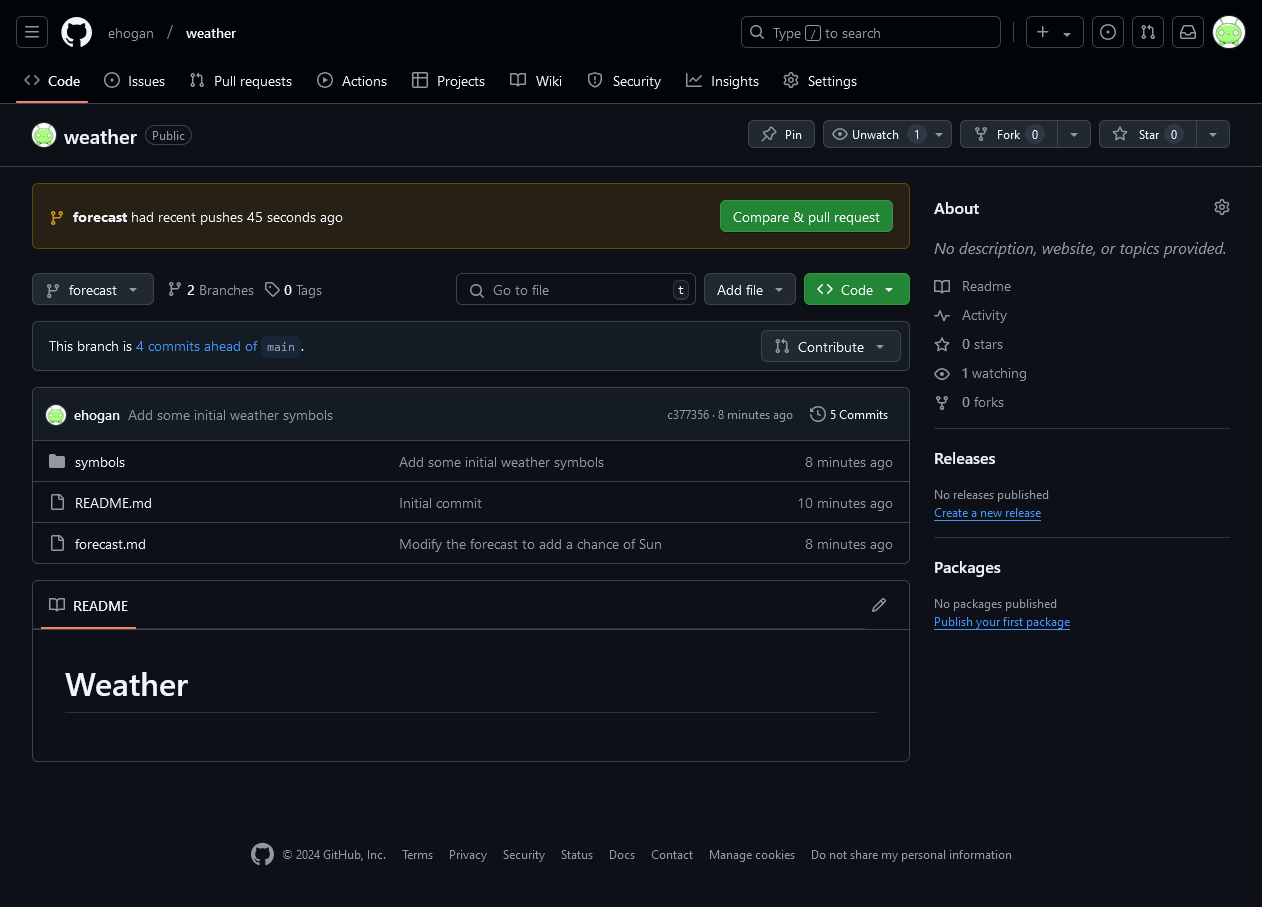
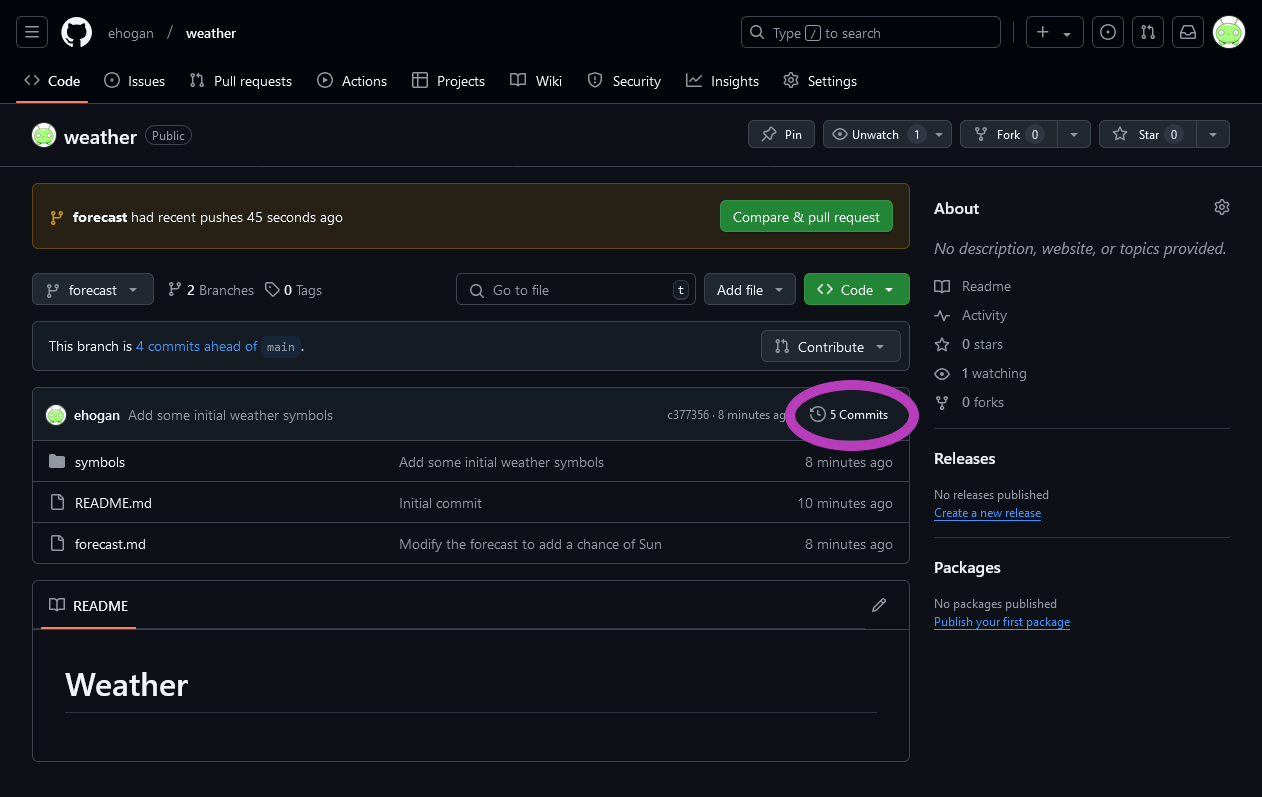
#61: Update images and use the images in the expected order

diff --git a/episodes/09-github-history.md b/episodes/09-github-history.md
@@ -39,18 +39,21 @@ Now we can push our local branch to GitHub:
 $ git push
 ```
 
-Navigate to your `weather` GitHub repo,
-then select the `forecast` branch from the branch drop down box:
+Navigate to your `weather` GitHub repo:
 
-![](fig/weather-repository-01.png){alt='A screenshot of the main branch of weather repository on GitHub, showing the branch drop down box.'}
+![](fig/weather-repository-01.png){alt='A screenshot of the main branch of weather repository on GitHub.'}
 
-Click on `commits`.
+Select the `forecast` branch from the branch drop down box:
 
-![](fig/weather-repository-02.png){alt='A screenshot of the forecast branch of weather repository on GitHub, showing how to navigate to the commits.'}
+![](fig/weather-repository-02.png){alt='A screenshot of the main branch of weather repository on GitHub, showing the branch drop down box.'}
+
+Click on `commits`:
+
+![](fig/weather-repository-03.png){alt='A screenshot of the forecast branch of weather repository on GitHub, showing how to navigate to the commits.'}
 
 This commits page shows all the commits on your branch:
 
-![](fig/weather-repository-03.png){alt='A screenshot of the commit on the forecast branch of the weather repository on GitHub.'}
+![](fig/weather-repository-04.png){alt='A screenshot of the commit on the forecast branch of the weather repository on GitHub.'}
 
 The Git commit unique identifiers here on GitHub
 match with those shown after running `git log` on the command line
